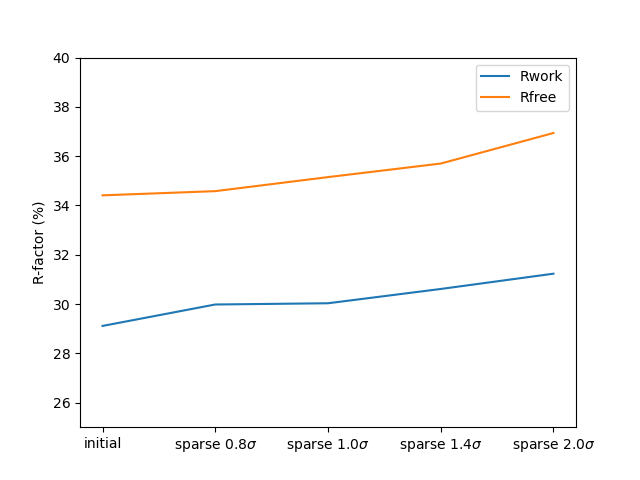
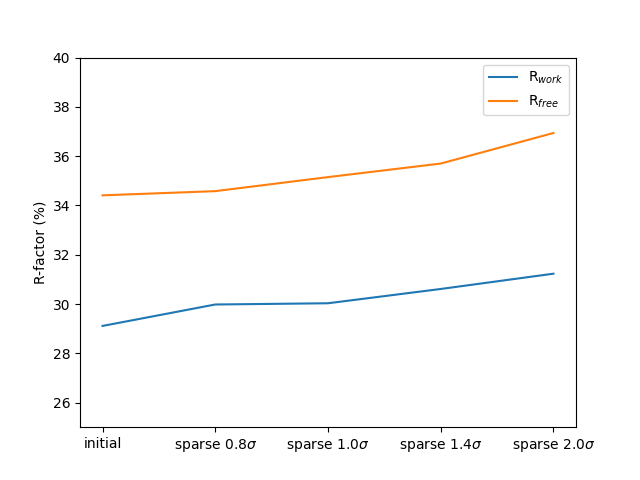
use lower case, sub-script for Rwork and Rfree

Changed region(s): [[0.75, 0.125, 0.875, 0.25], [0.0312, 0.4375, 0.0938, 0.5938]]

diff --git a/fig_Rfree.py b/fig_Rfree.py
@@ -7,8 +7,8 @@ Rwork = [29.11,29.98,30.03,30.61, 31.23]
 Rfree = [34.41,34.58,35.15,35.70,36.94]
 
 fig,ax=subplots()
-ax.plot(Rwork, label="Rwork")
-ax.plot(Rfree, label="Rfree")
+ax.plot(Rwork, label="R$_{work}$")
+ax.plot(Rfree, label="R$_{free}$")
 ax.set_xticks(range(5), labels)
 ax.set_ylabel("R-factor (%)")
 ax.set_ylim(25, 40)
